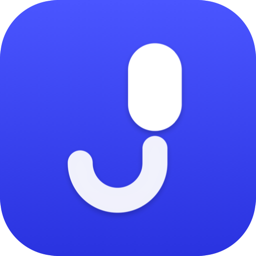
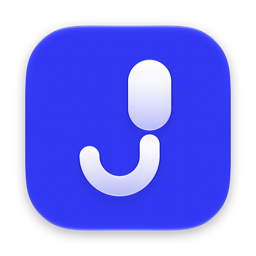
Give the README the family look shared with Boaz, Jimmy and Edison (#35)
Same icon grid and shadow, the same badge and call-to-action rows, a section linking the three apps, and a
matching social preview card in docs/assets/social-preview.png.

diff --git a/README.md b/README.md
@@ -9,14 +9,16 @@
 One queue drives everything: save an episode from anywhere and it's the next thing that plays. Subscriptions,
 progress, downloads and listening stats live on your device, and nothing is uploaded anywhere.
 
-[![CI](https://github.com/chenkahana/Jimmy/actions/workflows/ci.yml/badge.svg?branch=main)](https://github.com/chenkahana/Jimmy/actions/workflows/ci.yml)
 ![iOS 27+](https://img.shields.io/badge/iOS-27%2B-000000?logo=apple)
 ![watchOS 27+](https://img.shields.io/badge/watchOS-27%2B-000000?logo=apple)
 ![Swift 6](https://img.shields.io/badge/Swift-6-F05138?logo=swift&logoColor=white)
-[![License](https://img.shields.io/badge/license-MPL--2.0-brightgreen)](LICENSE)
-[![PRs welcome](https://img.shields.io/badge/PRs-welcome-3A46F5)](CONTRIBUTING.md)
+[![License: MPL-2.0](https://img.shields.io/badge/license-MPL--2.0-blue)](LICENSE)
+[![CI](https://github.com/chenkahana/Jimmy/actions/workflows/ci.yml/badge.svg?branch=main)](https://github.com/chenkahana/Jimmy/actions/workflows/ci.yml)
+[![PRs welcome](https://img.shields.io/badge/PRs-welcome-brightgreen)](CONTRIBUTING.md)
 
-[Website](https://chenkahana.com/jimmy) · [Features](#features) · [Screenshots](#screenshots) · [Architecture](#architecture) · [Getting started](#getting-started) · [Roadmap](#roadmap) · [Contributing](#contributing)
+[![Build from source](https://img.shields.io/badge/Build_from_source-Xcode_27-3A46F5?style=for-the-badge&logo=xcode&logoColor=white)](#getting-started) [![Website](https://img.shields.io/badge/Website-chenkahana.com%2Fjimmy-111111?style=for-the-badge&logo=safari&logoColor=white)](https://chenkahana.com/jimmy)
+
+[Features](#features) · [Screenshots](#screenshots) · [Architecture](#architecture) · [Getting started](#getting-started) · [Roadmap](#roadmap) · [Contributing](#contributing)
 
 <table>
   <tr>
@@ -153,6 +155,21 @@ Contributions are welcome, from a typo fix to a new feature.
 
 Everyone taking part follows the [Code of Conduct](CODE_OF_CONDUCT.md). Changes are recorded in
 [CHANGELOG.md](CHANGELOG.md).
+
+## The family
+
+Boaz, Jimmy and Edison are made by one independent developer, on the same principles: native Swift and SwiftUI,
+private by design (no accounts, analytics or tracking), and open source under the Mozilla Public License 2.0.
+
+<table>
+  <tr>
+    <td align="center" width="33%"><a href="https://github.com/chenkahana/Boaz"><img src="https://raw.githubusercontent.com/chenkahana/Boaz/master/docs/assets/icon.png" width="88" alt="Boaz app icon"></a><br><b><a href="https://github.com/chenkahana/Boaz">Boaz</a></b><br><sub>A calm web browser for iPhone and Mac</sub></td>
+    <td align="center" width="33%"><a href="https://github.com/chenkahana/Jimmy"><img src="https://raw.githubusercontent.com/chenkahana/Jimmy/main/docs/assets/icon.png" width="88" alt="Jimmy app icon"></a><br><b><a href="https://github.com/chenkahana/Jimmy">Jimmy</a></b><br><sub>A queue-centric podcast player for iPhone</sub></td>
+    <td align="center" width="33%"><a href="https://github.com/chenkahana/Edison"><img src="https://raw.githubusercontent.com/chenkahana/Edison/main/docs/assets/icon.png" width="88" alt="Edison app icon"></a><br><b><a href="https://github.com/chenkahana/Edison">Edison</a></b><br><sub>Clipboard history and screenshots for Mac</sub></td>
+  </tr>
+</table>
+
+<p align="center"><sub>More at <a href="https://chenkahana.com">chenkahana.com</a></sub></p>
 
 ## License
 
